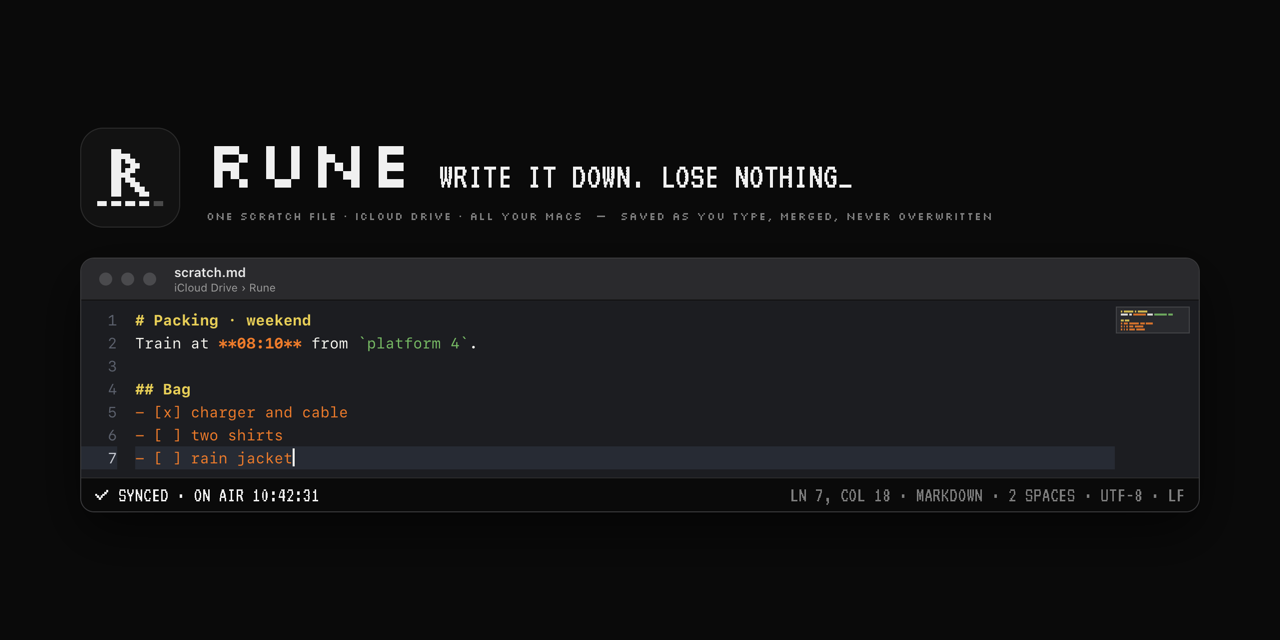
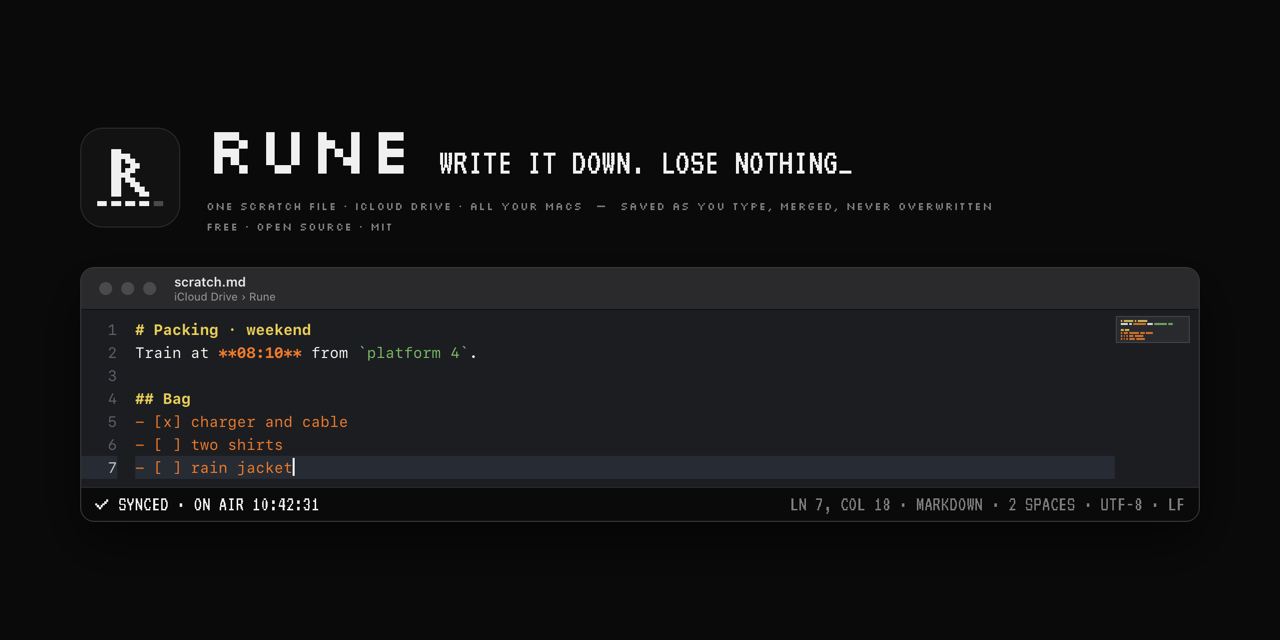
GitHub card: free, open source, MIT
The repository's social preview gets a second small line, "Free · open
source · MIT", still inside GitHub's 80-pixel border. Only that card is
re-rendered.

diff --git a/scripts/brand/rune-brand.html b/scripts/brand/rune-brand.html
@@ -144,6 +144,12 @@ body.github { width: 1280px; height: 640px; }
 const kind = { "#card": "card", "#github": "github" }[location.hash] || "product";
 document.body.className = kind;
 // The card's head is one row: the name and the tagline side by side, as Blit's card.
+if (kind === "github") {
+  // The repository's preview says what the repository is: free, open source, MIT (DS4, 2026-11-04).
+  const label = document.querySelector(".label");
+  label.innerHTML += "<br>Free · open source · MIT";
+  label.style.lineHeight = "1.9";
+}
 if (kind === "product") {
   // In the square it has room for, the small line in two: where the file is, what Rune promises.
   document.querySelector(".label").innerHTML = "One scratch file · iCloud Drive · all your Macs<br>Saved as you type, merged, never overwritten";
